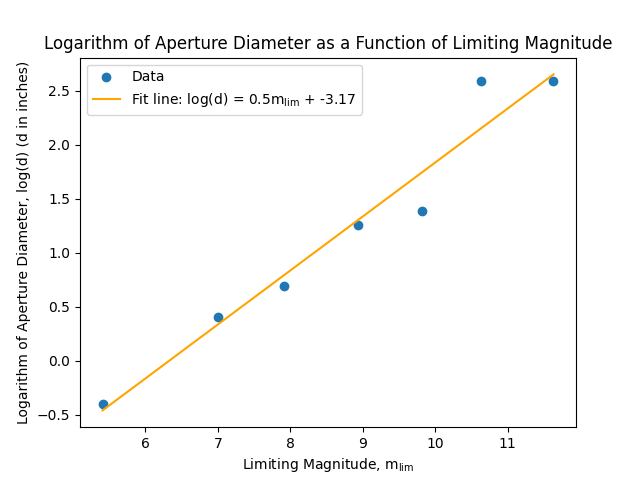
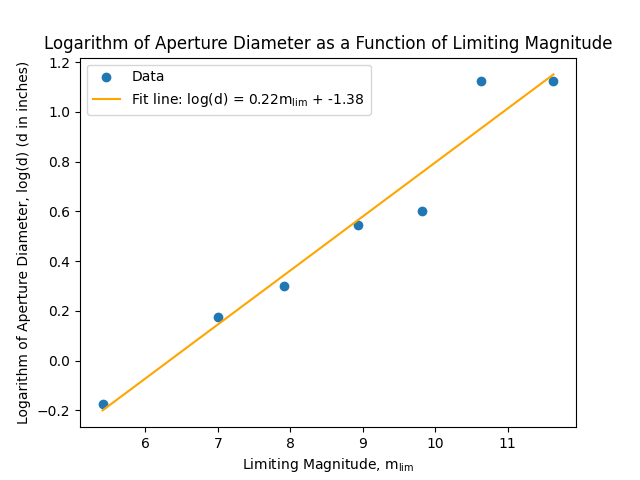
Regenerate plots using the right log base
why is np.log a natural log by default

diff --git a/Lab 2/question6-logt-vs-m_lim/question6-regression.py b/Lab 2/question6-logt-vs-m_lim/question6-regression.py
@@ -8,11 +8,11 @@ from scipy.optimize import curve_fit
 # define independent variable m_lim, defined as the Gaia magnitude of asterism stars, provided in lab assignment
 m_lim = [5.41, 7.00, 7.91, 8.94, 9.81, 10.63, 11.63, 12.88]
 
-# define dependent variable t, the shortest exposure time before loss of visibility
+# define dependent variable t, the shortest exposure time before loss of visibility, in ms
 t = [20, 30, 50, 200, 900, 2000, 5000, 12000]
 # convert to logspace
-log_t = np.log(t)
-# print(log_t)
+log_t = np.log10(t)
+print(log_t)
 
 # scatter data points
 plt.scatter(m_lim, log_t, label='Data')

diff --git a/Lab 2/question3-m_lim-vs-d/question3-regression.py b/Lab 2/question3-m_lim-vs-d/question3-regression.py
@@ -12,7 +12,7 @@ m_lim = [5.41, 7.00, 7.91, 8.94, 9.81, 10.63, 11.63]  # exclude 12.88 because H 
 # define dependent variable d, the smallest aperture diameter through which each star could be seen
 d = [0.67, 1.5, 2, 3.5, 4, 13.26, 13.26]
 # convert to logspace
-log_d = np.log(d)
+log_d = np.log10(d)
 print(log_d)
 
 # create scatter plot

diff --git a/Lab 2/question4-mlim-predictions/question4-prediction.py b/Lab 2/question4-mlim-predictions/question4-prediction.py
@@ -40,7 +40,7 @@ plt.scatter(m_lim, log_d, label='Data')
 
 # define diameters of telescopes whose limiting magnitudes are being predicted
 d_pred = [26, 40, 393.701, 467.69]
-log_d_pred = np.log(d_pred)
+log_d_pred = np.log10(d_pred)
 
 # generate predictions based off fitted regression relationship
 m_lim_pred = []
